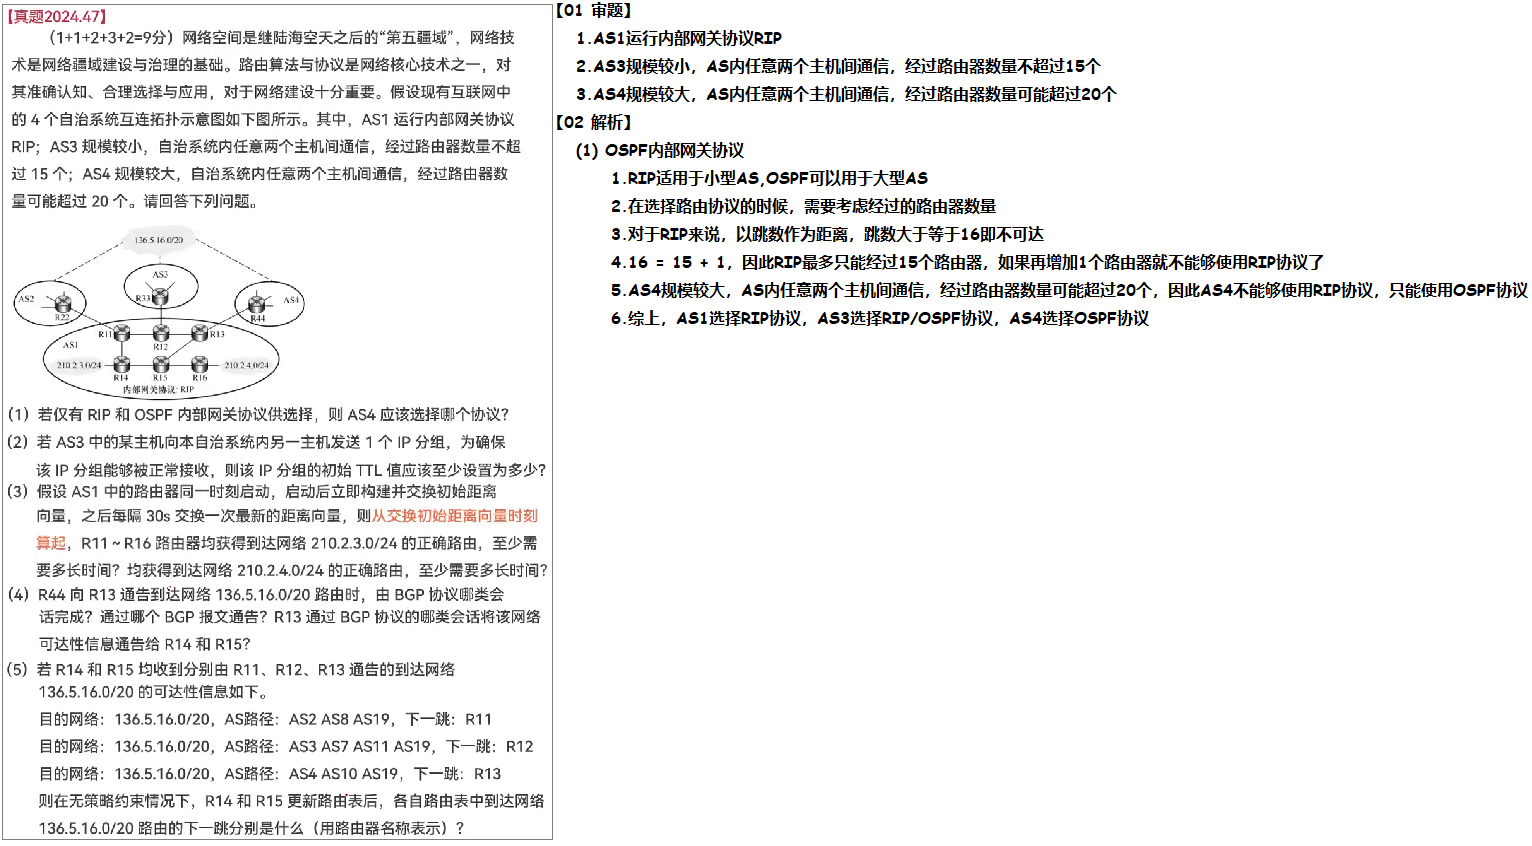
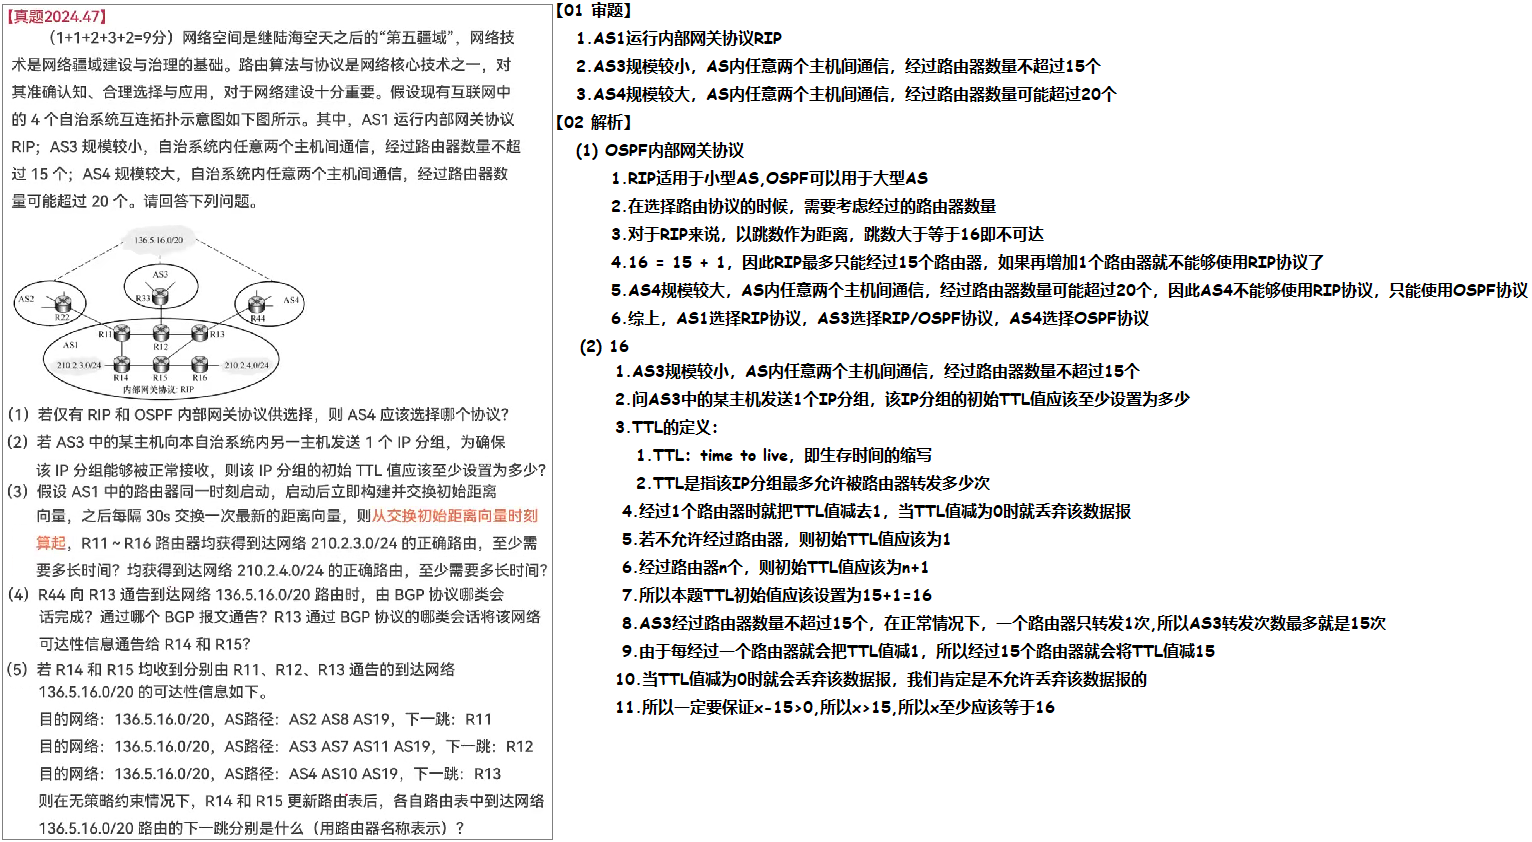
250521 D212 W

Changed region(s): [[0.3681, 0.0309, 1.0, 0.8646], [0.0, 0.2779, 0.3681, 1.0], [0.0, 0.0309, 0.3375, 0.247]]

diff --git a/01 初试/01 408真题/01 24408/02 综合应用题 9‘/04 计算机网络 9'/01 47 9’ BGP路由选择协议 9’/01 250520 D213 T/01 Doc.md b/01 初试/01 408真题/01 24408/02 综合应用题 9‘/04 计算机网络 9'/01 47 9’ BGP路由选择协议 9’/01 250520 D213 T/01 Doc.md
@@ -12,7 +12,7 @@
 
 # 02 答案
 
-<img src="https://cvp.oss-cn-shanghai.aliyuncs.com/202505202237770.png" alt="image-20250520223718617" style="zoom:50%;" />
+<img src="https://cvp.oss-cn-shanghai.aliyuncs.com/202505211045270.png" alt="image-20250521104454016" style="zoom:50%;" />
 
 
 
